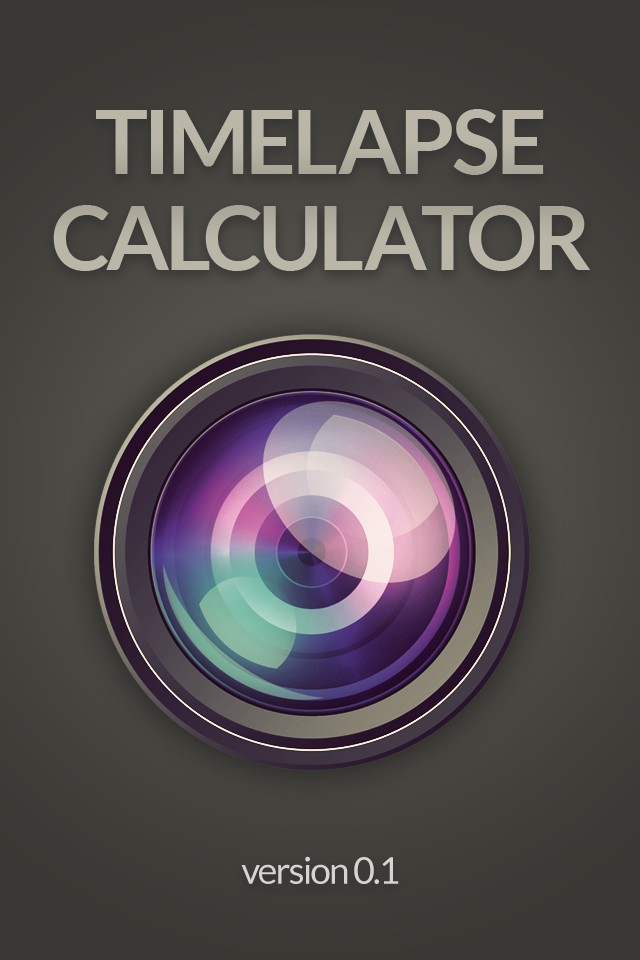
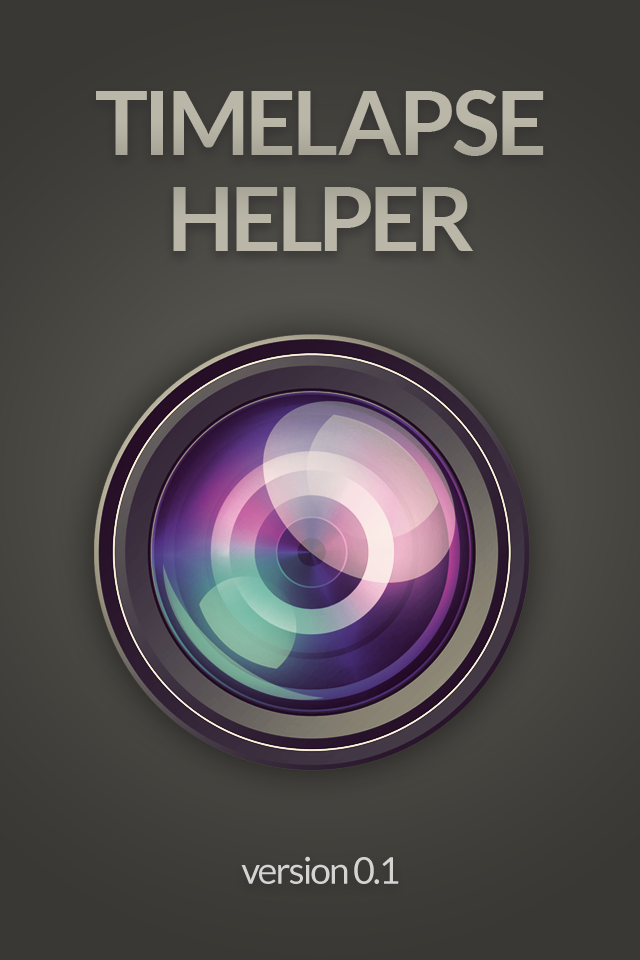
Changed name to "Timelapse Helper"

Changed region(s): [[0.0625, 0.0938, 0.9375, 0.2812]]

diff --git a/credits/credits.html b/credits/credits.html
@@ -3,7 +3,7 @@
 	<head>
     
 		<meta http-equiv="Content-Type" content="text/html; charset=UTF-8">
-		<title>Timplapse Calculator - credits</title>
+		<title>Timplapse Helper - credits</title>
         
         <style type="text/css">
 		
